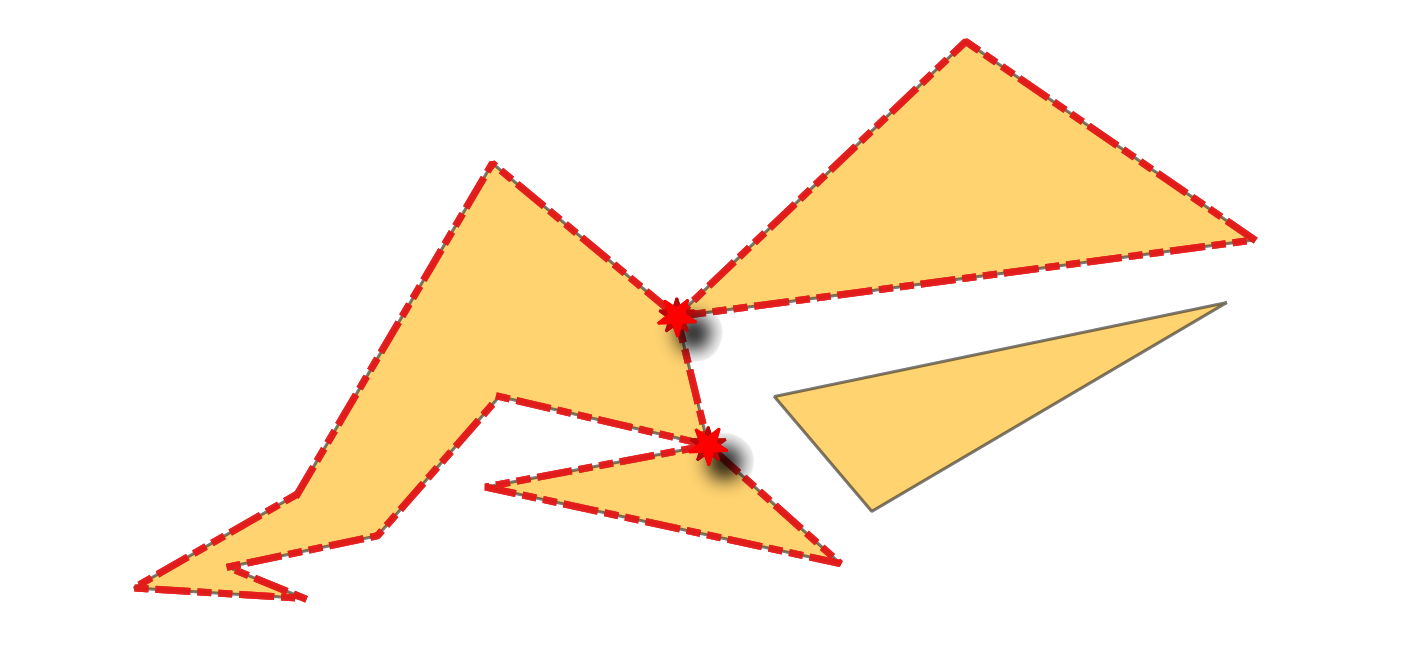
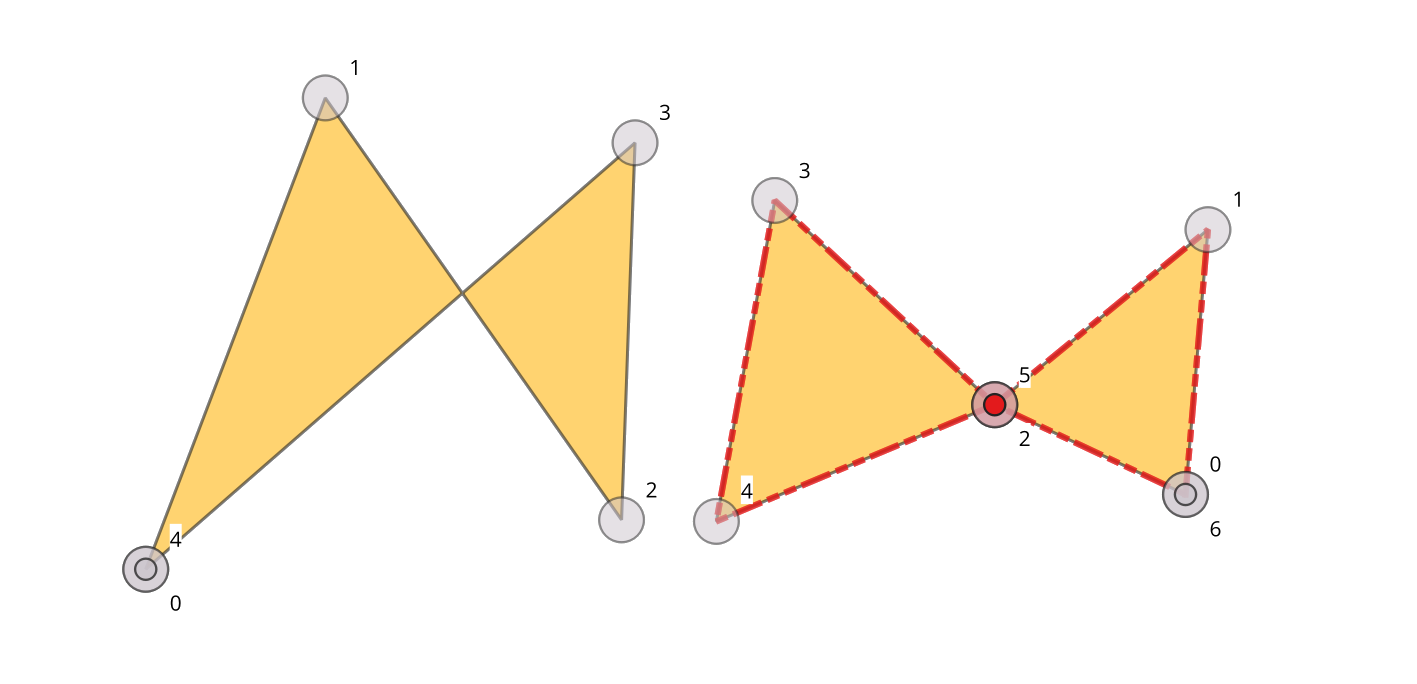
Modified image

Changed region(s): [[0.0621, 0.0602, 0.9005, 0.9036]]

diff --git a/docs/user_manual/processing_algs/qgis/checkgeometry.rst b/docs/user_manual/processing_algs/qgis/checkgeometry.rst
@@ -1262,7 +1262,7 @@ Self contacts are errors.
 .. figure:: img/check_geometry_selfcontact.png
    :align: center
 
-   Reporting errors on features with self-contacts.
+   Self-intersection vs self-contact.
 
 Parameters
 ..........
@@ -1353,8 +1353,8 @@ Outputs
 
        - ``gc_layerid``: the ID of the input layer.
        - ``gc_layername``: the name of the input layer.
-       - ``gc_partidx``
-       - ``gc_ringidx``
+       - ``gc_partidx``: the index of the feature's geometry part where the self-contact occurs.
+       - ``gc_ringidx``: the index of the ring where the self-contact occurs.
        - ``gc_vertidx``: the index of the vertex where the self-contact occurs.
        - ``gc_errorx``: the x coordinate of the self-contact.
        - ``gc_errory``: the y coordinate of the self-contact.
